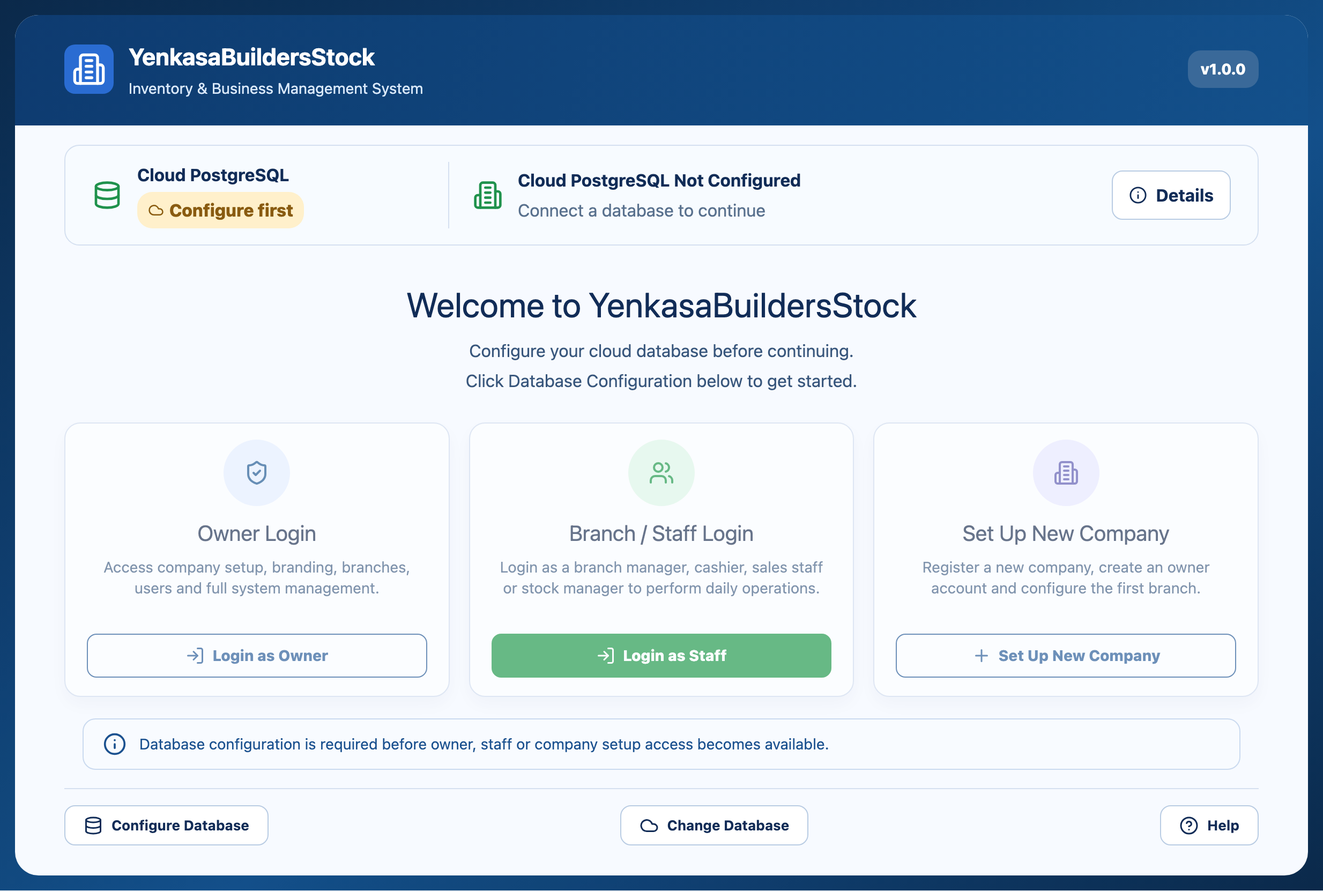
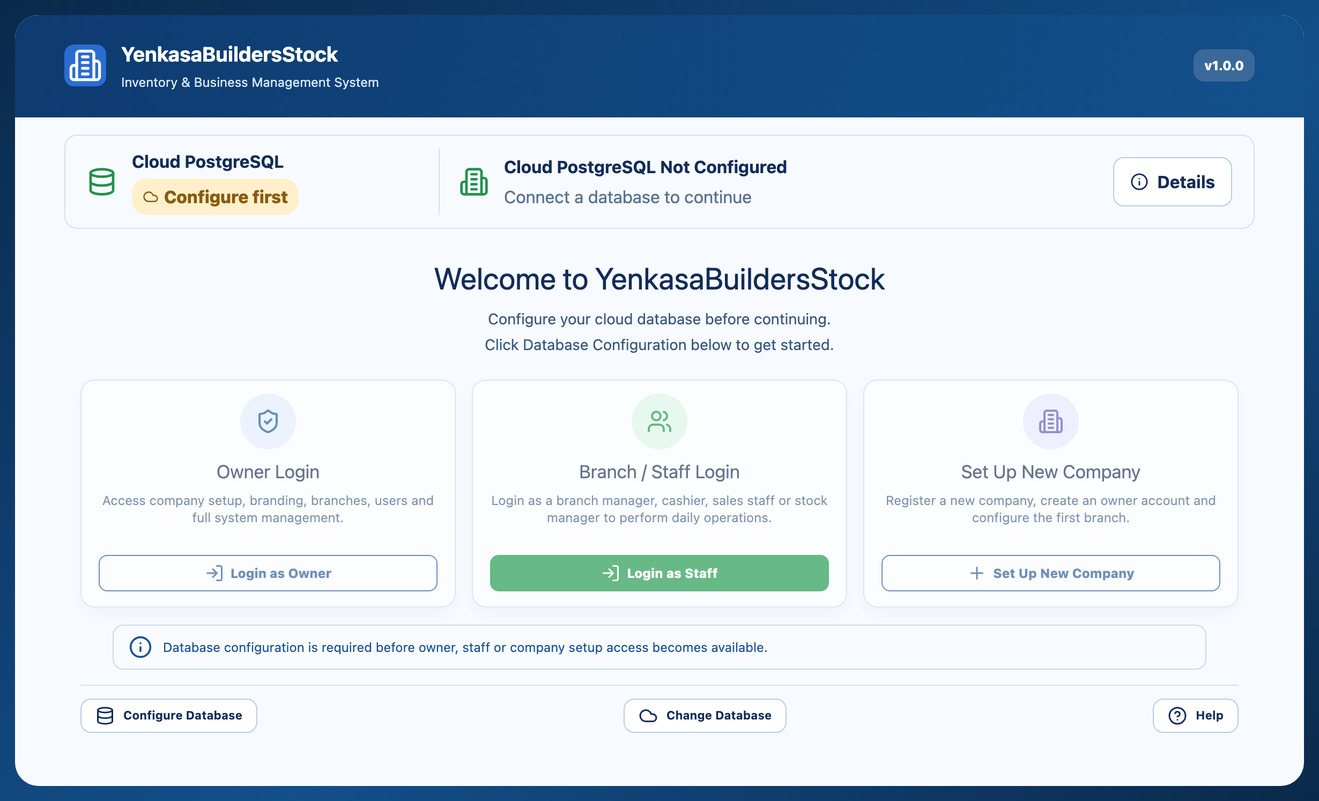
fix: keep installation flow on welcome before auth

diff --git a/apps/desktop/out/renderer/assets/index-BAor0bBG.css b/apps/desktop/out/renderer/assets/index-BAor0bBG.css
@@ -6847,11 +6847,11 @@ footer {
   color: #fff;
   background: linear-gradient(110deg, #0a3971, #0d4e8d);
 }
-.installation-welcome-header strong { display: block; font-size: 22px; }
-.installation-welcome-header span:not(.installation-version) { display: block; margin-top: 3px; color: #d8e8fb; font-size: 14px; }
-.installation-brand-mark { display: grid; place-items: center; width: 46px; height: 46px; border-radius: 10px; color: #fff; background: #2469d5; }
-.installation-version { margin-left: auto; padding: 7px 12px; border-radius: 12px; color: #fff; background: #37689b; font-size: 14px; font-weight: 800; }
-.installation-status-strip { display: flex; align-items: center; gap: 22px; margin-top: 18px; padding: 15px 25px; border: 1px solid #d4e0f0; border-radius: 14px; background: #f7fbff; color: #102b58; }
+.installation-welcome-header strong { display: block; font-size: 19px; }
+.installation-welcome-header span:not(.installation-version) { display: block; margin-top: 3px; color: #d8e8fb; font-size: 12px; }
+.installation-brand-mark { display: grid; place-items: center; width: 39px; height: 39px; border-radius: 9px; color: #fff; background: #2469d5; }
+.installation-version { margin-left: auto; padding: 6px 10px; border-radius: 10px; color: #fff; background: #37689b; font-size: 12px; font-weight: 800; }
+.installation-status-strip { display: flex; align-items: center; gap: 18px; margin-top: 16px; padding: 12px 20px; border: 1px solid #d4e0f0; border-radius: 12px; background: #f7fbff; color: #102b58; }
 .installation-status-item { display: flex; align-items: center; gap: 14px; min-width: 310px; }
 .installation-status-item > svg { color: #159349; }
 .installation-status-item strong, .installation-status-item span { display: block; }
@@ -6862,24 +6862,24 @@ footer {
 .installation-company-status { flex: 1; }
 .installation-details, .installation-footer-actions button { display: inline-flex; align-items: center; justify-content: center; gap: 8px; border: 1px solid #b8cbe4; border-radius: 10px; color: #102b58; background: #fff; font-weight: 700; cursor: pointer; }
 .installation-details { padding: 10px 15px; white-space: nowrap; }
-.installation-welcome-copy { padding: 31px 0 23px; text-align: center; color: #102b58; }
-.installation-welcome-copy h1 { margin: 0 0 7px; font-size: clamp(26px, 2.6vw, 36px); }
-.installation-welcome-copy p { margin: 4px 0; color: #36557d; font-size: 16px; }
-.installation-access-grid { display: grid; grid-template-columns: repeat(3, minmax(0, 1fr)); gap: 18px; max-width: 1140px; margin: 0 auto; }
-.installation-access-card { display: flex; flex-direction: column; align-items: center; min-height: 248px; padding: 15px 20px 17px; border: 1px solid #cfdbed; border-radius: 15px; background: #fff; box-shadow: 0 7px 17px rgba(23, 54, 95, .06); text-align: center; }
+.installation-welcome-copy { padding: 25px 0 19px; text-align: center; color: #102b58; }
+.installation-welcome-copy h1 { margin: 0 0 6px; font-size: clamp(23px, 2.3vw, 31px); }
+.installation-welcome-copy p { margin: 3px 0; color: #36557d; font-size: 14px; }
+.installation-access-grid { display: grid; grid-template-columns: repeat(3, minmax(0, 1fr)); gap: 15px; max-width: 1080px; margin: 0 auto; }
+.installation-access-card { display: flex; flex-direction: column; align-items: center; min-height: 208px; padding: 12px 16px 14px; border: 1px solid #cfdbed; border-radius: 13px; background: #fff; box-shadow: 0 6px 14px rgba(23, 54, 95, .06); text-align: center; }
 .installation-access-card.disabled { opacity: .62; }
-.installation-access-icon { display: grid; place-items: center; width: 62px; height: 62px; margin-bottom: 10px; border-radius: 50%; color: #0d4c8c; background: #e6efff; }
+.installation-access-icon { display: grid; place-items: center; width: 52px; height: 52px; margin-bottom: 8px; border-radius: 50%; color: #0d4c8c; background: #e6efff; }
 .installation-access-card:nth-child(2) .installation-access-icon { color: #0b9438; background: #ddf7e6; }
 .installation-access-card:nth-child(3) .installation-access-icon { color: #554eb0; background: #e9e7ff; }
-.installation-access-card h2 { margin: 0 0 7px; color: #0e2146; font-size: 20px; }
-.installation-access-card p { min-height: 58px; margin: 0 0 14px; color: #36557d; font-size: 14px; line-height: 1.4; }
-.installation-access-card button { display: inline-flex; align-items: center; justify-content: center; gap: 7px; width: 100%; margin-top: auto; padding: 9px 13px; border-radius: 9px; font-size: 14px; font-weight: 800; cursor: pointer; }
+.installation-access-card h2 { margin: 0 0 6px; color: #0e2146; font-size: 17px; }
+.installation-access-card p { min-height: 48px; margin: 0 0 11px; color: #36557d; font-size: 12px; line-height: 1.35; }
+.installation-access-card button { display: inline-flex; align-items: center; justify-content: center; gap: 6px; width: 100%; margin-top: auto; padding: 7px 10px; border-radius: 8px; font-size: 12px; font-weight: 800; cursor: pointer; }
 .installation-primary-action { border: 1px solid #0b9438; color: #fff; background: #0b9438; }
 .installation-secondary-action { border: 1px solid #174f91; color: #174f91; background: #fff; }
 .installation-access-card button:disabled { cursor: not-allowed; }
-.installation-notice { display: flex; align-items: center; gap: 12px; max-width: 1080px; margin: 20px auto 17px; padding: 12px 18px; border: 1px solid #c9d9f0; border-radius: 12px; color: #174f91; background: #f8fbff; font-size: 14px; }
-.installation-footer-actions { display: flex; justify-content: space-between; gap: 12px; max-width: 1140px; margin: 0 auto; padding-top: 15px; border-top: 1px solid #d4e0f0; }
-.installation-footer-actions button { padding: 8px 17px; font-size: 13px; }
+.installation-notice { display: flex; align-items: center; gap: 10px; max-width: 1020px; margin: 16px auto 14px; padding: 9px 14px; border: 1px solid #c9d9f0; border-radius: 10px; color: #174f91; background: #f8fbff; font-size: 12px; }
+.installation-footer-actions { display: flex; justify-content: space-between; gap: 10px; max-width: 1080px; margin: 0 auto; padding-top: 12px; border-top: 1px solid #d4e0f0; }
+.installation-footer-actions button { padding: 6px 13px; font-size: 11px; }
 @media (max-width: 980px) {
   .installation-status-strip { flex-wrap: wrap; }
   .installation-status-divider { display: none; }

diff --git a/apps/desktop/src/renderer/styles.css b/apps/desktop/src/renderer/styles.css
@@ -6316,11 +6316,11 @@ footer {
   color: #fff;
   background: linear-gradient(110deg, #0a3971, #0d4e8d);
 }
-.installation-welcome-header strong { display: block; font-size: 22px; }
-.installation-welcome-header span:not(.installation-version) { display: block; margin-top: 3px; color: #d8e8fb; font-size: 14px; }
-.installation-brand-mark { display: grid; place-items: center; width: 46px; height: 46px; border-radius: 10px; color: #fff; background: #2469d5; }
-.installation-version { margin-left: auto; padding: 7px 12px; border-radius: 12px; color: #fff; background: #37689b; font-size: 14px; font-weight: 800; }
-.installation-status-strip { display: flex; align-items: center; gap: 22px; margin-top: 18px; padding: 15px 25px; border: 1px solid #d4e0f0; border-radius: 14px; background: #f7fbff; color: #102b58; }
+.installation-welcome-header strong { display: block; font-size: 19px; }
+.installation-welcome-header span:not(.installation-version) { display: block; margin-top: 3px; color: #d8e8fb; font-size: 12px; }
+.installation-brand-mark { display: grid; place-items: center; width: 39px; height: 39px; border-radius: 9px; color: #fff; background: #2469d5; }
+.installation-version { margin-left: auto; padding: 6px 10px; border-radius: 10px; color: #fff; background: #37689b; font-size: 12px; font-weight: 800; }
+.installation-status-strip { display: flex; align-items: center; gap: 18px; margin-top: 16px; padding: 12px 20px; border: 1px solid #d4e0f0; border-radius: 12px; background: #f7fbff; color: #102b58; }
 .installation-status-item { display: flex; align-items: center; gap: 14px; min-width: 310px; }
 .installation-status-item > svg { color: #159349; }
 .installation-status-item strong, .installation-status-item span { display: block; }
@@ -6331,24 +6331,24 @@ footer {
 .installation-company-status { flex: 1; }
 .installation-details, .installation-footer-actions button { display: inline-flex; align-items: center; justify-content: center; gap: 8px; border: 1px solid #b8cbe4; border-radius: 10px; color: #102b58; background: #fff; font-weight: 700; cursor: pointer; }
 .installation-details { padding: 10px 15px; white-space: nowrap; }
-.installation-welcome-copy { padding: 31px 0 23px; text-align: center; color: #102b58; }
-.installation-welcome-copy h1 { margin: 0 0 7px; font-size: clamp(26px, 2.6vw, 36px); }
-.installation-welcome-copy p { margin: 4px 0; color: #36557d; font-size: 16px; }
-.installation-access-grid { display: grid; grid-template-columns: repeat(3, minmax(0, 1fr)); gap: 18px; max-width: 1140px; margin: 0 auto; }
-.installation-access-card { display: flex; flex-direction: column; align-items: center; min-height: 248px; padding: 15px 20px 17px; border: 1px solid #cfdbed; border-radius: 15px; background: #fff; box-shadow: 0 7px 17px rgba(23, 54, 95, .06); text-align: center; }
+.installation-welcome-copy { padding: 25px 0 19px; text-align: center; color: #102b58; }
+.installation-welcome-copy h1 { margin: 0 0 6px; font-size: clamp(23px, 2.3vw, 31px); }
+.installation-welcome-copy p { margin: 3px 0; color: #36557d; font-size: 14px; }
+.installation-access-grid { display: grid; grid-template-columns: repeat(3, minmax(0, 1fr)); gap: 15px; max-width: 1080px; margin: 0 auto; }
+.installation-access-card { display: flex; flex-direction: column; align-items: center; min-height: 208px; padding: 12px 16px 14px; border: 1px solid #cfdbed; border-radius: 13px; background: #fff; box-shadow: 0 6px 14px rgba(23, 54, 95, .06); text-align: center; }
 .installation-access-card.disabled { opacity: .62; }
-.installation-access-icon { display: grid; place-items: center; width: 62px; height: 62px; margin-bottom: 10px; border-radius: 50%; color: #0d4c8c; background: #e6efff; }
+.installation-access-icon { display: grid; place-items: center; width: 52px; height: 52px; margin-bottom: 8px; border-radius: 50%; color: #0d4c8c; background: #e6efff; }
 .installation-access-card:nth-child(2) .installation-access-icon { color: #0b9438; background: #ddf7e6; }
 .installation-access-card:nth-child(3) .installation-access-icon { color: #554eb0; background: #e9e7ff; }
-.installation-access-card h2 { margin: 0 0 7px; color: #0e2146; font-size: 20px; }
-.installation-access-card p { min-height: 58px; margin: 0 0 14px; color: #36557d; font-size: 14px; line-height: 1.4; }
-.installation-access-card button { display: inline-flex; align-items: center; justify-content: center; gap: 7px; width: 100%; margin-top: auto; padding: 9px 13px; border-radius: 9px; font-size: 14px; font-weight: 800; cursor: pointer; }
+.installation-access-card h2 { margin: 0 0 6px; color: #0e2146; font-size: 17px; }
+.installation-access-card p { min-height: 48px; margin: 0 0 11px; color: #36557d; font-size: 12px; line-height: 1.35; }
+.installation-access-card button { display: inline-flex; align-items: center; justify-content: center; gap: 6px; width: 100%; margin-top: auto; padding: 7px 10px; border-radius: 8px; font-size: 12px; font-weight: 800; cursor: pointer; }
 .installation-primary-action { border: 1px solid #0b9438; color: #fff; background: #0b9438; }
 .installation-secondary-action { border: 1px solid #174f91; color: #174f91; background: #fff; }
 .installation-access-card button:disabled { cursor: not-allowed; }
-.installation-notice { display: flex; align-items: center; gap: 12px; max-width: 1080px; margin: 20px auto 17px; padding: 12px 18px; border: 1px solid #c9d9f0; border-radius: 12px; color: #174f91; background: #f8fbff; font-size: 14px; }
-.installation-footer-actions { display: flex; justify-content: space-between; gap: 12px; max-width: 1140px; margin: 0 auto; padding-top: 15px; border-top: 1px solid #d4e0f0; }
-.installation-footer-actions button { padding: 8px 17px; font-size: 13px; }
+.installation-notice { display: flex; align-items: center; gap: 10px; max-width: 1020px; margin: 16px auto 14px; padding: 9px 14px; border: 1px solid #c9d9f0; border-radius: 10px; color: #174f91; background: #f8fbff; font-size: 12px; }
+.installation-footer-actions { display: flex; justify-content: space-between; gap: 10px; max-width: 1080px; margin: 0 auto; padding-top: 12px; border-top: 1px solid #d4e0f0; }
+.installation-footer-actions button { padding: 6px 13px; font-size: 11px; }
 @media (max-width: 980px) {
   .installation-status-strip { flex-wrap: wrap; }
   .installation-status-divider { display: none; }

diff --git a/apps/desktop/out/renderer/assets/index-Dkr4Lt8W.js b/apps/desktop/out/renderer/assets/index-Dkr4Lt8W.js
@@ -15644,9 +15644,15 @@ const navigationPermission = {
   Customers: "customers",
   Suppliers: "suppliers"
 };
+const initialInstallationStatus = {
+  state: "DATABASE_NOT_CONFIGURED",
+  databaseConfigured: false,
+  cloudConnected: false,
+  companyFound: false
+};
 function Dashboard() {
   const [sidebarOpen, setSidebarOpen] = reactExports.useState(false);
-  const [active, setActive] = reactExports.useState("Branch Login");
+  const [active, setActive] = reactExports.useState("Installation Welcome");
   const [setupExpanded, setSetupExpanded] = reactExports.useState(true);
   const [branchSession, setBranchSession] = reactExports.useState(() => {
     try {
@@ -15664,27 +15670,44 @@ function Dashboard() {
     }
   });
   const [ownerStatusLoaded, setOwnerStatusLoaded] = reactExports.useState(false);
-  const [installationStatus, setInstallationStatus] = reactExports.useState(null);
+  const [installationStatus, setInstallationStatus] = reactExports.useState(initialInstallationStatus);
   const [initialSetupMode, setInitialSetupMode] = reactExports.useState(false);
   reactExports.useEffect(() => {
-    window.desktopBridge?.cloud.getConfig().then((config) => {
-      if (!config.passwordConfigured && !branchSession && !ownerSession) {
-        setInstallationStatus({
-          state: "DATABASE_NOT_CONFIGURED",
-          databaseConfigured: false,
-          cloudConnected: false,
-          companyFound: false
-        });
-        setActive("Installation Welcome");
-        return;
-      }
-      return installationApi.status().then((status) => {
-        setInstallationStatus(status);
-        if (!branchSession && !ownerSession) {
-          setActive(status.state === "CLOUD_UNAVAILABLE" ? "Cloud Database" : "Installation Welcome");
+    if (branchSession || ownerSession) return;
+    let cancelled = false;
+    const loadInstallationState = async () => {
+      try {
+        const config = await window.desktopBridge?.cloud.getConfig();
+        if (!config.passwordConfigured && !branchSession && !ownerSession) {
+          if (!cancelled) setInstallationStatus({
+            state: "DATABASE_NOT_CONFIGURED",
+            databaseConfigured: false,
+            cloudConnected: false,
+            companyFound: false
+          });
+          if (!cancelled) setActive("Installation Welcome");
+          return;
         }
-      });
-    }).catch(() => void 0);
+        const status = await installationApi.status();
+        if (cancelled) return;
+        setInstallationStatus(status);
+        setActive(status.state === "CLOUD_UNAVAILABLE" ? "Cloud Database" : "Installation Welcome");
+      } catch {
+        if (cancelled) return;
+        setInstallationStatus((current) => current.databaseConfigured ? { ...current, state: "CLOUD_UNAVAILABLE", cloudConnected: false, companyFound: false } : initialInstallationStatus);
+        setActive("Cloud Database");
+      }
+    };
+    void loadInstallationState();
+    return () => {
+      cancelled = true;
+    };
+  }, [branchSession, ownerSession]);
+  reactExports.useEffect(() => {
+    if (branchSession && active === "Installation Welcome") setActive("Dashboard");
+    if (ownerSession && active === "Installation Welcome") setActive("Owner Account");
+  }, [active, branchSession, ownerSession]);
+  reactExports.useEffect(() => {
     companyApi.get().then((company) => {
       const root = document.documentElement;
       if (!company?.useBrandColours) {
@@ -15699,7 +15722,7 @@ function Dashboard() {
       root.style.setProperty("--brand-secondary", company?.secondaryColor || "#f7b500");
       root.style.setProperty("--brand-accent", company?.accentColor || "#d7263d");
     }).catch(() => void 0);
-  }, [branchSession, ownerSession]);
+  }, []);
   reactExports.useEffect(() => {
     const sync = () => {
       try {
@@ -16026,10 +16049,17 @@ function Dashboard() {
             CloudDatabaseSetupPage,
             {
               onSaved: () => {
-                void installationApi.status().then((status) => {
-                  setInstallationStatus(status);
-                  setActive("Installation Welcome");
-                });
+                setInstallationStatus((current) => ({
+                  state: "CLOUD_CONNECTED_SCHEMA_PENDING",
+                  databaseConfigured: true,
+                  cloudConnected: true,
+                  companyFound: current?.companyFound ?? false,
+                  schemaReady: false,
+                  registeredName: current?.registeredName,
+                  tradingName: current?.tradingName
+                }));
+                setActive("Installation Welcome");
+                void installationApi.status().then(setInstallationStatus).catch(() => void 0);
               }
             }
           ) : canRenderSetup ? /* @__PURE__ */ jsxRuntimeExports.jsx(SetupPage, { page: active, onNavigate: setActive }) : setupItems.some(([, label]) => label === active) && (branchSession || !setupUnlocked) ? /* @__PURE__ */ jsxRuntimeExports.jsxs("section", { className: "placeholder-page", role: "alert", children: [

diff --git a/apps/desktop/src/renderer/Dashboard.tsx b/apps/desktop/src/renderer/Dashboard.tsx
@@ -160,10 +160,16 @@ const navigationPermission: Record<string, string | undefined> = {
   Customers: 'customers',
   Suppliers: 'suppliers',
 };
+const initialInstallationStatus: InstallationStatus = {
+  state: 'DATABASE_NOT_CONFIGURED',
+  databaseConfigured: false,
+  cloudConnected: false,
+  companyFound: false,
+};
 
 export function Dashboard() {
   const [sidebarOpen, setSidebarOpen] = useState(false);
-  const [active, setActive] = useState('Branch Login');
+  const [active, setActive] = useState('Installation Welcome');
   const [setupExpanded, setSetupExpanded] = useState(true);
   const [branchSession, setBranchSession] = useState<AuthSession | null>(() => {
     try {
@@ -181,29 +187,42 @@ export function Dashboard() {
     }
   });
   const [ownerStatusLoaded, setOwnerStatusLoaded] = useState(false);
-  const [installationStatus, setInstallationStatus] = useState<InstallationStatus | null>(null);
+  const [installationStatus, setInstallationStatus] = useState<InstallationStatus>(initialInstallationStatus);
   const [initialSetupMode, setInitialSetupMode] = useState(false);
   useEffect(() => {
-    window.desktopBridge?.cloud.getConfig()
-      .then((config) => {
+    if (branchSession || ownerSession) return;
+    let cancelled = false;
+    const loadInstallationState = async () => {
+      try {
+        const config = await window.desktopBridge?.cloud.getConfig();
         if (!config.passwordConfigured && !branchSession && !ownerSession) {
-          setInstallationStatus({
+          if (!cancelled) setInstallationStatus({
             state: 'DATABASE_NOT_CONFIGURED',
             databaseConfigured: false,
             cloudConnected: false,
             companyFound: false,
           });
-          setActive('Installation Welcome');
+          if (!cancelled) setActive('Installation Welcome');
           return;
         }
-        return installationApi.status().then((status) => {
-          setInstallationStatus(status);
-          if (!branchSession && !ownerSession) {
-            setActive(status.state === 'CLOUD_UNAVAILABLE' ? 'Cloud Database' : 'Installation Welcome');
-          }
-        });
-      })
-      .catch(() => undefined);
+        const status = await installationApi.status();
+        if (cancelled) return;
+        setInstallationStatus(status);
+        setActive(status.state === 'CLOUD_UNAVAILABLE' ? 'Cloud Database' : 'Installation Welcome');
+      } catch {
+        if (cancelled) return;
+        setInstallationStatus((current) => current.databaseConfigured ? { ...current, state: 'CLOUD_UNAVAILABLE', cloudConnected: false, companyFound: false } : initialInstallationStatus);
+        setActive('Cloud Database');
+      }
+    };
+    void loadInstallationState();
+    return () => { cancelled = true; };
+  }, [branchSession, ownerSession]);
+  useEffect(() => {
+    if (branchSession && active === 'Installation Welcome') setActive('Dashboard');
+    if (ownerSession && active === 'Installation Welcome') setActive('Owner Account');
+  }, [active, branchSession, ownerSession]);
+  useEffect(() => {
     companyApi.get().then((company) => {
       const root = document.documentElement;
       if (!company?.useBrandColours) {
@@ -218,7 +237,7 @@ export function Dashboard() {
       root.style.setProperty('--brand-secondary', company?.secondaryColor || '#f7b500');
       root.style.setProperty('--brand-accent', company?.accentColor || '#d7263d');
     }).catch(() => undefined);
-  }, [branchSession, ownerSession]);
+  }, []);
   useEffect(() => {
     const sync = () => {
       try {
@@ -590,10 +609,17 @@ export function Dashboard() {
         ) : active === 'Cloud Database' ? (
           <CloudDatabaseSetupPage
             onSaved={() => {
-              void installationApi.status().then((status) => {
-                setInstallationStatus(status);
-                setActive('Installation Welcome');
-              });
+              setInstallationStatus((current) => ({
+                state: 'CLOUD_CONNECTED_SCHEMA_PENDING',
+                databaseConfigured: true,
+                cloudConnected: true,
+                companyFound: current?.companyFound ?? false,
+                schemaReady: false,
+                registeredName: current?.registeredName,
+                tradingName: current?.tradingName,
+              }));
+              setActive('Installation Welcome');
+              void installationApi.status().then(setInstallationStatus).catch(() => undefined);
             }}
           />
         ) : canRenderSetup ? (

diff --git a/scripts/validate_save_handoff_live.js b/scripts/validate_save_handoff_live.js
@@ -1,0 +1,15 @@
+import { chromium } from 'playwright';
+
+const browser = await chromium.connectOverCDP('http://127.0.0.1:9226');
+const page = browser.contexts()[0].pages()[0];
+await page.waitForLoadState('domcontentloaded');
+await page.getByText('Welcome to YenkasaBuildersStock').waitFor({ state: 'visible', timeout: 15000 });
+await page.getByRole('button', { name: 'Database Configuration' }).click();
+await page.getByText('Connect to Supabase').waitFor({ state: 'visible', timeout: 5000 });
+await page.getByRole('button', { name: 'Test Connection' }).click();
+await page.getByText('Connection verified').waitFor({ state: 'visible', timeout: 30000 });
+await page.getByRole('button', { name: 'Save and Continue' }).click();
+await page.getByText('Welcome to YenkasaBuildersStock').waitFor({ state: 'visible', timeout: 10000 });
+await page.screenshot({ path: 'Validation Reports/Welcome_After_Save_Live.png', fullPage: true });
+console.log(JSON.stringify({ saveHandoffReturnedToWelcome: true }));
+await browser.close();

diff --git a/apps/desktop/out/renderer/index.html b/apps/desktop/out/renderer/index.html
@@ -1,3 +1,3 @@
-<html><head><title>YenkasaBuildersStock</title>  <script type="module" crossorigin src="./assets/index-C_nCAd6C.js"></script>
-  <link rel="stylesheet" crossorigin href="./assets/index-CBqQL6jL.css">
+<html><head><title>YenkasaBuildersStock</title>  <script type="module" crossorigin src="./assets/index-Dkr4Lt8W.js"></script>
+  <link rel="stylesheet" crossorigin href="./assets/index-BAor0bBG.css">
 </head><body><div id="root"></div></body></html>

diff --git a/scripts/make_cloud_configuration_report.py b/scripts/make_cloud_configuration_report.py
@@ -85,6 +85,7 @@ content = [
             'CLOUD-02 | Fresh installation access | Request cloud configuration before a company record exists | HTTP 200 without owner credentials | PASS',
             'CLOUD-02A | Entry screen gate | Start the rebuilt DMG with an isolated empty user-data profile | Welcome screen is shown first; Owner Login, Staff Login and New Company are disabled until Database Configuration succeeds | PASS; live packaged test',
             'CLOUD-02C | Database configuration navigation | Click Configure Database in the live empty-profile DMG | Supabase connection setup screen opens | PASS; live packaged test',
+            'CLOUD-02D | Startup failure fallback | Launch with a saved profile whose cloud status cannot be confirmed | App must not remain on Branch Login; it routes to Cloud Database for reconnection | PASS by source/build validation; clean-profile live test passed the primary entry path',
             'CLOUD-02B | Post-configuration handoff | Test and save cloud configuration, then return to the application entry screen | Welcome screen is shown again with the three access choices enabled according to company status | PASS by renderer build and source validation; packaged interactive screenshot pending',
             'CLOUD-03 | Fresh installation validation | Submit malformed cloud-test payload before company registration | HTTP 422 useful validation error, not owner-auth failure | PASS',
             'CLOUD-04 | Post-setup independence | Create a company record, then request cloud configuration without an owner session | HTTP 200; connectivity configuration remains independent of owner authentication | PASS',
@@ -97,7 +98,7 @@ content = [
             'CLOUD-11 | Packaged API build | Build the bundled local-api with the updated lifecycle endpoint | PyInstaller build completed and produced the packaged local-api executable | PASS',
             'CLOUD-12 | Protected navigation gate | Start renderer with no owner or branch session after cloud status is available | Installation Welcome is shown; Company Setup pages are not rendered or listed until initial setup is explicitly selected or owner login succeeds | PASS by live packaged empty-profile test',
             'CLOUD-13 | Existing env connection | Test the configured backend DATABASE_URL without printing the secret | Direct db host could not be resolved before authentication | FAIL; use the exact Session Pooler host, username and port 5432 from Supabase Connect.',
-            'CLOUD-14 | Secure persistence restart | Save valid configuration, restart packaged app, reopen page | Metadata restored and password remains masked | NOT TESTED interactively.',
+            'CLOUD-14 | Save handoff | Test and save a valid connection in the same packaged profile | App immediately returns to Welcome while status refreshes in the background | NOT TESTED with a valid live Supabase profile; copied safeStorage data could not be used as a valid connection profile.',
         ]),
     ]),
     page('Cloud Database Configuration Validation', [
